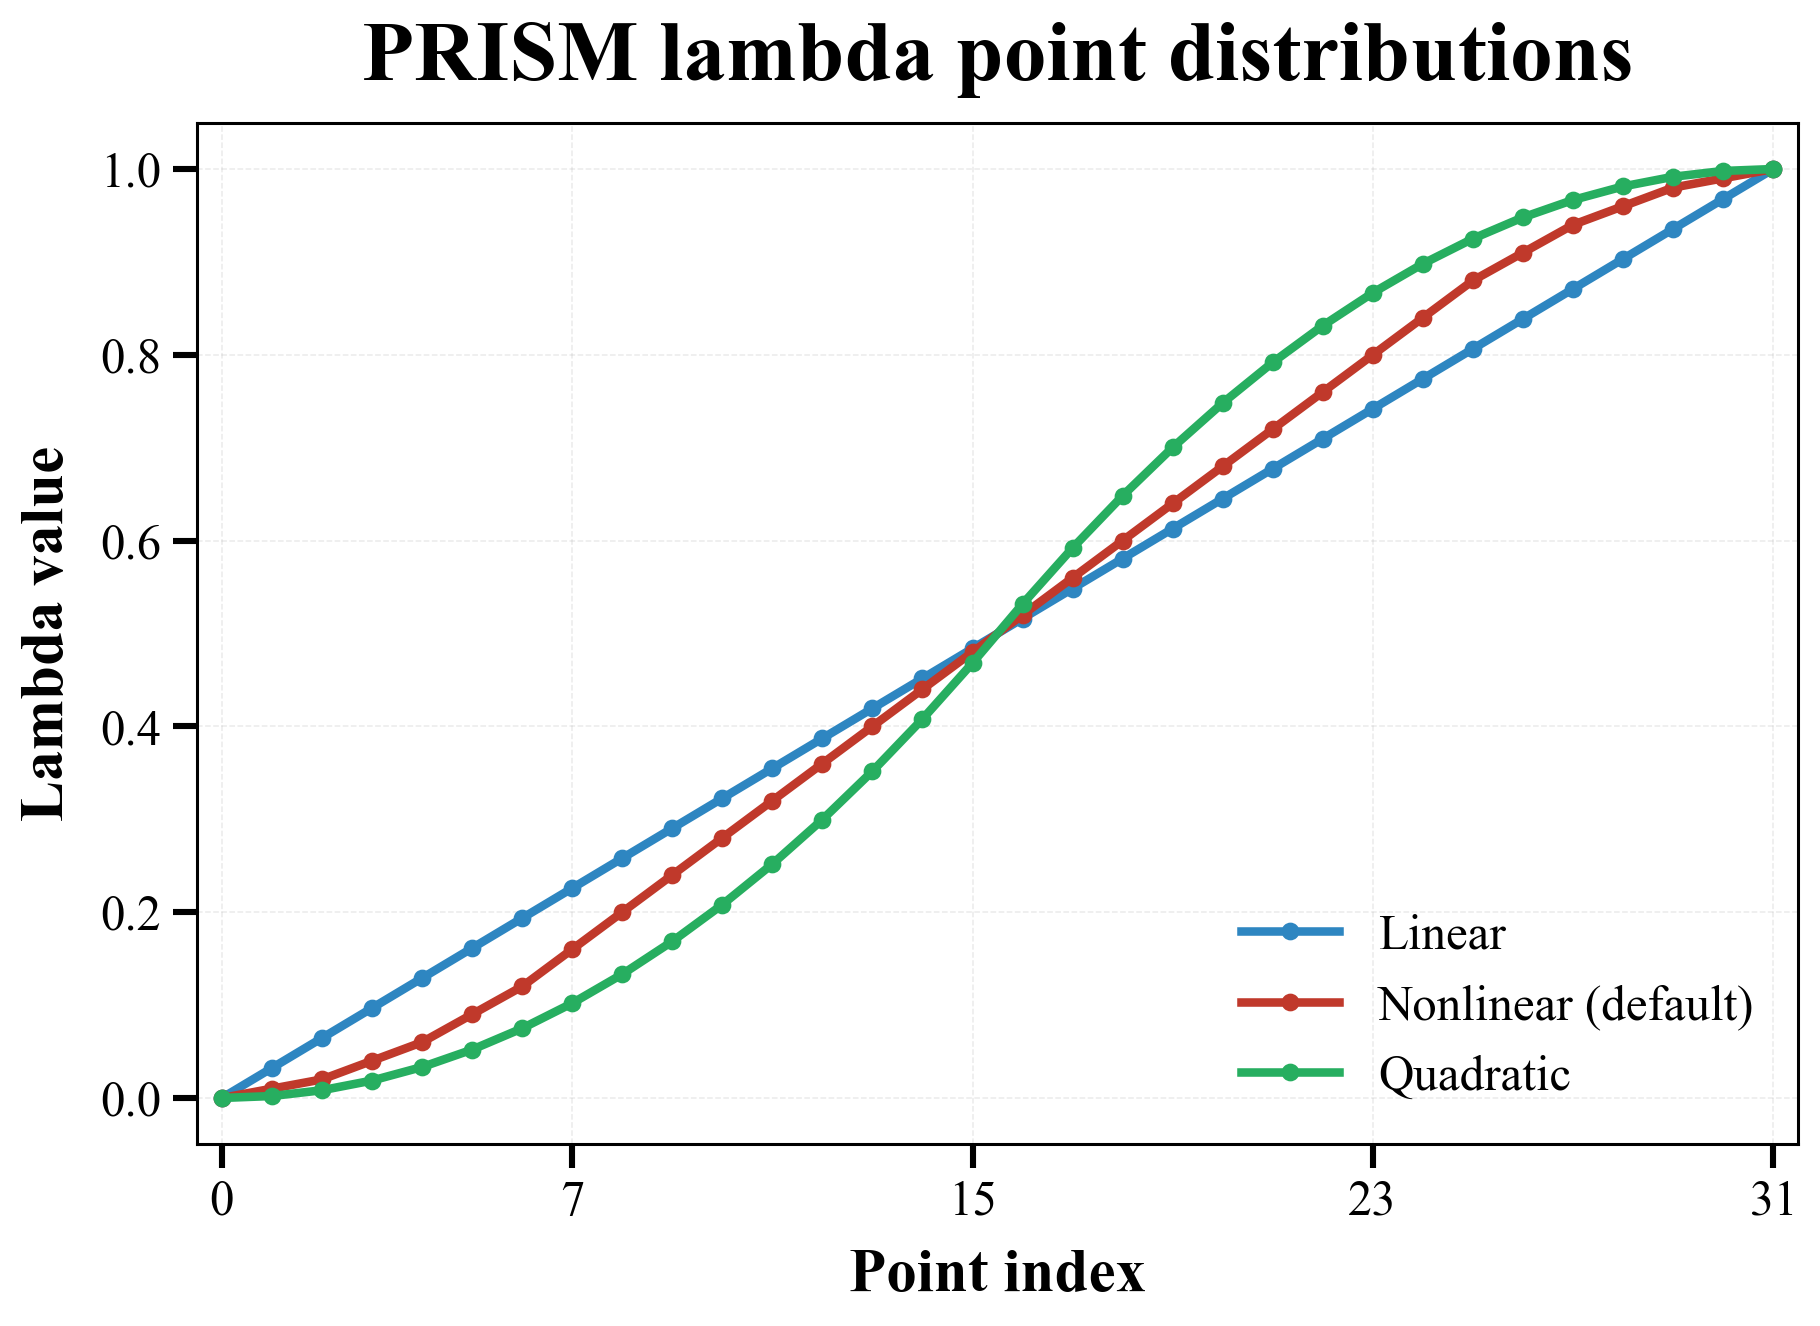
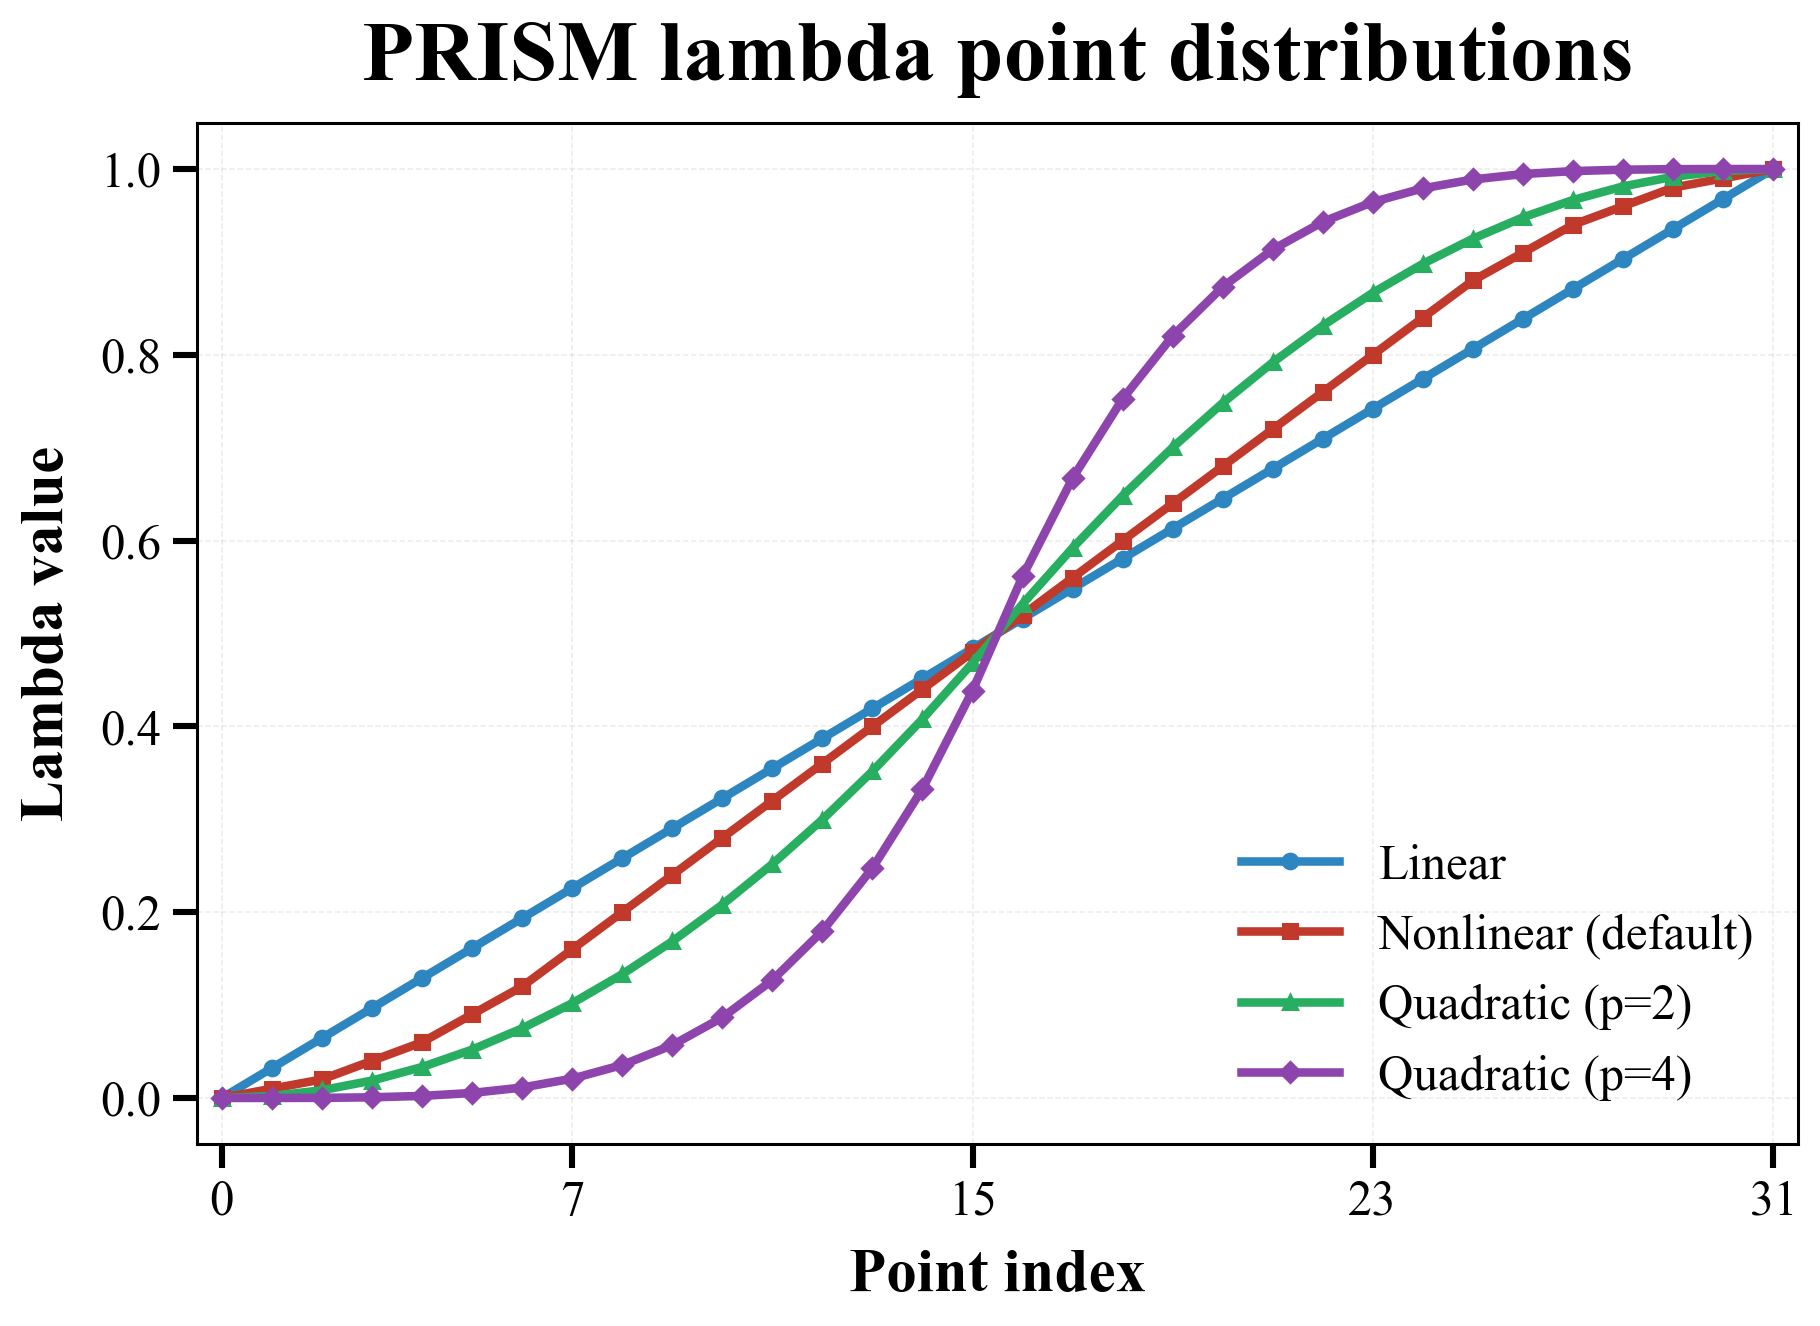
Refine FEP documentation and visuals

diff --git a/docs/assets/fep/draw_lambda_distributions.py b/docs/assets/fep/draw_lambda_distributions.py
@@ -21,7 +21,8 @@ def main() -> None:
     distributions = [
         ('Linear', build_distribution(n_points, 'linear'), '#2E86C1'),
         ('Nonlinear (default)', build_distribution(n_points, 'nonlinear'), '#C0392B'),
-        ('Quadratic', build_distribution(n_points, 'quadratic'), '#27AE60'),
+        ('Quadratic (p=2)', build_distribution(n_points, 'quadratic', quadratic_exponent=2.0), '#27AE60'),
+        ('Quadratic (p=4)', build_distribution(n_points, 'quadratic', quadratic_exponent=4.0), '#8E44AD'),
     ]
 
     plt.rcParams['font.family'] = 'Times New Roman'
@@ -30,8 +31,9 @@ def main() -> None:
     fig, ax = plt.subplots(1, 1, figsize=(8.5, 6.5))
     x = np.arange(n_points)
 
-    for title, values, color in distributions:
-        ax.plot(x, values, marker='o', linewidth=2.8, markersize=4.8, color=color, label=title)
+    markers = ['o', 's', '^', 'D']
+    for (title, values, color), marker in zip(distributions, markers):
+        ax.plot(x, values, marker=marker, linewidth=2.8, markersize=4.8, color=color, label=title)
 
     ax.set_title('PRISM lambda point distributions', fontweight='bold', fontsize=28, pad=14)
     ax.set_xlabel('Point index', fontsize=20)

diff --git a/docs/user-guide/fep-calculations.md b/docs/user-guide/fep-calculations.md
@@ -132,8 +132,20 @@ The following figure compares the three supported point distributions using 32 l
 | Distribution | Default? | Meaning |
 |---|---|---|
 | `linear` | no | Uniform spacing, i.e. `linspace(0, 1, n_points)`. |
-| `nonlinear` | yes | PRISM's reference endpoint-dense schedule: a fixed 32-point table, subsampled for fewer points and interpolated for more points. |
-| `quadratic` | no | Symmetric piecewise-quadratic spacing: $\lambda = 2x^2$ for $x \le 0.5$ and $\lambda = 1 - 2(1-x)^2$ for $x > 0.5$. |
+| `nonlinear` | yes | PRISM's empirical endpoint-dense reference schedule: a fixed 32-point table, subsampled for fewer points and interpolated for more points. |
+| `quadratic` | no | An empirical symmetric power-law family with tunable endpoint bias; use it when you want more or fewer points near $\lambda=0$ and $\lambda=1$ without writing explicit custom arrays. |
+
+For the `quadratic` family, PRISM uses the empirical symmetric piecewise definition
+
+$$
+\lambda(x)=
+\begin{cases}
+\dfrac{1}{2}(2x)^p, & x \le 0.5 \\
+1 - \dfrac{1}{2}\left(2(1-x)\right)^p, & x > 0.5
+\end{cases}
+$$
+
+where $p$ is the `quadratic_exponent`. This is an empirical schedule-shaping parameter rather than a theoretically unique optimum. The historical behavior corresponds to `quadratic_exponent: 2.0`; larger values make the endpoints denser and the middle sparser. If you need exact placement, use `custom_coul_lambdas` and `custom_vdw_lambdas` instead. The figure above overlays both the default `p=2` curve and a stronger `p=4` example.
 
 Current GROMACS references for lambda schedules and interaction-specific lambda control are the free-energy implementation and interaction chapters.[^gmx-free-energy-impl] [^gmx-free-energy-interactions]
 
@@ -152,29 +164,31 @@ prism protein.pdb ligand_ref.mol2 -o fep_output \
 
 PRISM then:
 
-1. maps the ligand pair
+1. maps the ligand pair and generates the mapping report
 2. builds the hybrid topology and `hybrid.gro`
 3. prepares the **bound** leg (protein + hybrid ligand)
 4. prepares the **unbound** leg (hybrid ligand in solvent), reusing the bound-leg box vectors so the two legs are scaffolded with the same box dimensions
-5. writes per-window MDPs
-6. writes a root-level `run_fep.sh`
-7. writes per-leg helpers such as `run_prod_standard.sh` and `run_prod_repex.sh`
-8. writes `fep_scaffold.json` (a scaffold manifest for inspection/debugging; the normal run path does not currently depend on reading it back)
 
-**Important:** the mapping report is generated automatically during scaffold construction, before any MD stage is launched.
+### Generated Execution Scripts and Configuration
 
-### Generated Window Workflow
+PRISM then generates the execution environment for both legs:
 
-For each leg, PRISM currently prepares:
+1. **writes per-leg helper scripts** - `run_prod_standard.sh` and `run_prod_repex.sh` for each leg
+2. **writes a root-level `run_fep.sh`** - creates the master execution script that drives the entire workflow
+3. **writes per-window MDPs** - generates lambda-specific MDP files for each window
+4. **writes `fep_scaffold.json`** - a scaffold manifest for inspection/debugging (the normal run path does not currently depend on reading it back)
 
-1. leg-level EM, NVT, NPT
-2. per-window `em_short`, `npt_short`, and production (`prod`)
+### Execution Workflow
+
+For each leg, PRISM prepares the following execution stages:
+
+1. **leg-level equilibration** - EM, NVT, NPT stages for each leg
+2. **per-window relaxation** - each lambda window receives its own short lambda-specific relaxation (`em_short`, `npt_short`) before production
+3. **production execution** - final production runs (`prod`) for each lambda window
 
 This means each lambda window is not launched directly from the leg-level NPT state; it first receives its own short lambda-specific relaxation.
 
 This is PRISM's generated workflow for robustness and restartability. It is an implementation choice, not a GROMACS-imposed universal FEP sequence.
-
-`fep_scaffold.json` is mainly a machine-readable manifest that records scaffold metadata (for example the receptor path, hybrid asset filenames, and lambda settings). It is useful for auditing/debugging, but the standard `run_fep.sh` runtime path does not currently require reading it.
 
 ### Generated MDP Behavior
 
@@ -397,6 +411,7 @@ mapping:
 lambda:
   strategy: decoupled
   distribution: nonlinear
+  quadratic_exponent: 2.0
   windows: 32
   coul_windows: 12
   vdw_windows: 20
@@ -475,6 +490,7 @@ The standard user-facing workflow currently supports the following `charge_recep
 |---|---:|---|
 | `strategy` | `decoupled` | Lambda scheduling mode: `decoupled`, `coupled`, or `custom`. |
 | `distribution` | `nonlinear` | Distribution along the schedule: `linear`, `nonlinear`, or `quadratic`. |
+| `quadratic_exponent` | `2.0` | Empirical endpoint-bias exponent used when `distribution: quadratic`; larger values give denser endpoints, while `custom_*_lambdas` remains the most explicit option. |
 | `windows` | `32` | Total window count for `coupled`, and target total for `decoupled`. |
 | `coul_windows` | `12` | Coulomb-stage window count in `decoupled` mode. |
 | `vdw_windows` | `20` | VDW-stage window count in `decoupled` mode. |

diff --git a/docs/tutorials/fep-tutorial.md b/docs/tutorials/fep-tutorial.md
@@ -106,6 +106,7 @@ mapping:
 lambda:
   strategy: decoupled
   distribution: nonlinear
+  quadratic_exponent: 2.0
   windows: 32
   coul_windows: 12
   vdw_windows: 20
@@ -189,8 +190,8 @@ Supported schedule distributions are:
 | Distribution | Meaning |
 |---|---|
 | `linear` | Uniform spacing, i.e. `linspace(0, 1, n_points)`. |
-| `nonlinear` | PRISM's default endpoint-dense reference schedule, based on a 32-point table. |
-| `quadratic` | Symmetric piecewise-quadratic spacing with denser endpoints and a sparser middle. |
+| `nonlinear` | PRISM's default empirical endpoint-dense reference schedule, based on a 32-point table. |
+| `quadratic` | An empirical symmetric power-law family controlled by `quadratic_exponent`; the figure compares the default `p=2` curve with a stronger `p=4` example. Use custom lambda arrays if you need exact control. |
 
 ### Interpreting charge redistribution
 
